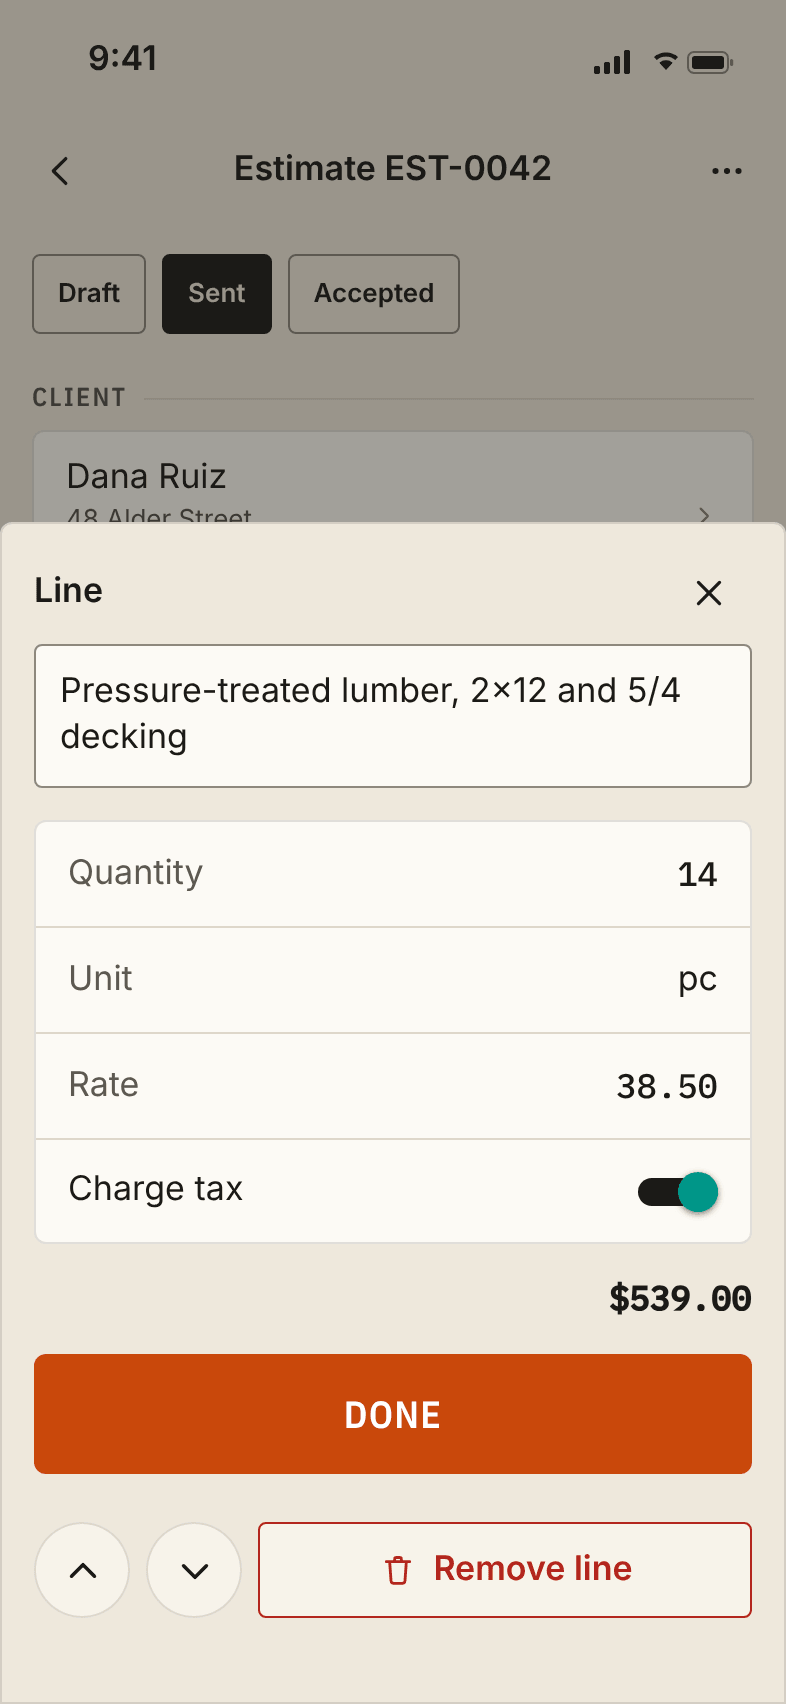
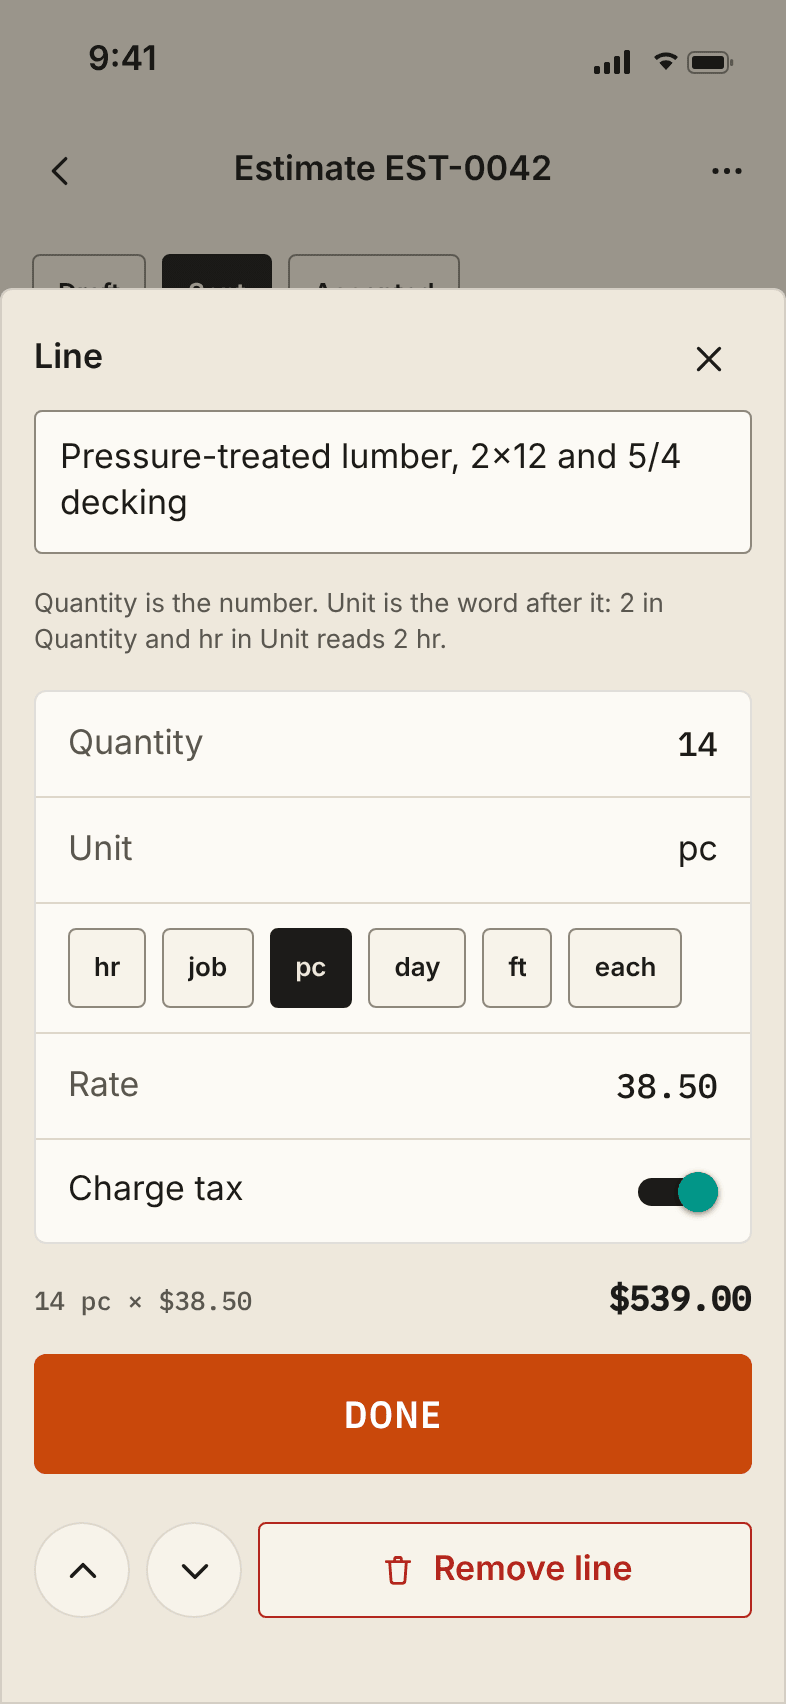
1.0.0 build 3: first-run fixes
No sample signature on the person's own estimate previews; the line
editor explains Quantity and Unit with one-tap units, a warning and the
line as it will read; the fourth intro screen shows the whole receipt
width; drawers scroll above the keyboard. Build number 3.

Claude-Session: https://claude.ai/code/session_018oC8CiF3jPh34psnTdyHuA

Changed region(s): [[0.0, 0.1555, 1.0, 0.591], [0.2137, 0.7465, 0.3053, 0.7776], [0.0611, 0.7465, 0.1221, 0.7776]]

diff --git a/src/screens/Editor.tsx b/src/screens/Editor.tsx
@@ -10,7 +10,8 @@ import { addDays, daysBetween, isoDay } from '../dates';
 import { lineAmount } from '../money';
 import { stepFor } from '../docs';
 import Glyph from '../ui/Glyph';
-import { Caption, Drawer, Field, GlyphButton, InkButton, Label, Panel, QuietButton, Row, Tap, TopBar } from '../ui/Kit';
+import { Caption, Drawer, Field, GlyphButton, InkButton, Label, Panel, Pill, QuietButton, Row, Tap, TopBar } from '../ui/Kit';
+import { lineExample, UNIT_CHOICES, unitHasNumber } from '../lineHelp';
 import { Choice, DateSheet, InputRow, MoneyRow, NumberRow, Section, SwitchRow, ValueRow } from '../ui/Form';
 import { InkView } from '../ui/InkView';
 import { tick } from '../ui/motion';
@@ -459,14 +460,30 @@ function LineEditor({
   return (
     <View style={{ gap: space.l, paddingBottom: space.s }}>
       <Field theme={theme} value={l.description} onChangeText={(description) => setL({ ...l, description })} placeholder="Describe the work or the part" multiline autoFocus={isNew} accessibilityLabel="Description" style={{ minHeight: 72, paddingTop: space.m }} />
+      <Caption theme={theme}>Quantity is the number. Unit is the word after it: 2 in Quantity and hr in Unit reads 2 hr.</Caption>
       <Panel theme={theme}>
         <NumberRow theme={theme} first label="Quantity" value={l.qty} onValue={(qty) => setL({ ...l, qty })} locale={locale} />
-        <InputRow theme={theme} label="Unit" value={l.unit} onChangeText={(unit) => setL({ ...l, unit })} placeholder="hr, ea, sq ft" autoCapitalize="none" style={{ textAlign: 'right' }} />
+        <InputRow theme={theme} label="Unit" value={l.unit} onChangeText={(unit) => setL({ ...l, unit })} placeholder="Optional, like hr" autoCapitalize="none" autoCorrect={false} style={{ textAlign: 'right' }} />
+        <View style={[styles.units, { borderTopColor: theme.rule }]} accessibilityRole="radiogroup" accessibilityLabel="Common units">
+          {UNIT_CHOICES.map((u) => (
+            <Pill key={u} theme={theme} label={u} on={l.unit.trim() === u} onPress={() => setL({ ...l, unit: l.unit.trim() === u ? '' : u })} />
+          ))}
+        </View>
+        {unitHasNumber(l.unit) ? (
+          <Text style={[type.small, styles.unitWarn, { color: theme.danger }]} accessibilityLiveRegion="polite">
+            Put the number in Quantity. Unit is only the word, like hr.
+          </Text>
+        ) : null}
         <MoneyRow theme={theme} label="Rate" value={l.rate} onValue={(rate) => setL({ ...l, rate })} currency={currency} locale={locale} />
         {taxLabel ? <SwitchRow theme={theme} label={`Charge ${taxLabel.toLowerCase()}`} value={l.taxable} onValue={(taxable) => setL({ ...l, taxable })} /> : null}
         {isNew ? <SwitchRow theme={theme} label="Save to my items" sub="Use it again on the next job" value={save} onValue={setSave} /> : null}
       </Panel>
-      <Text style={[type.strong, tabular, { color: theme.ink, textAlign: 'right' }]}>{formatMoney(lineAmount(l, stepFor(currency)), currency, locale)}</Text>
+      <View style={styles.example} accessible accessibilityLabel={`On the page: ${lineExample(l.qty, l.unit, formatMoney(l.rate, currency, locale), locale)}, ${formatMoney(lineAmount(l, stepFor(currency)), currency, locale)}`}>
+        <Text style={[type.small, tabular, { color: theme.inkSoft, flex: 1 }]} numberOfLines={1}>
+          {lineExample(l.qty, l.unit, formatMoney(l.rate, currency, locale), locale)}
+        </Text>
+        <Text style={[type.strong, tabular, { color: theme.ink }]}>{formatMoney(lineAmount(l, stepFor(currency)), currency, locale)}</Text>
+      </View>
       <InkButton theme={theme} label={isNew ? 'Add line' : 'Done'} onPress={() => onDone(l, save)} />
       {!isNew ? (
         <View style={styles.lineButtons}>
@@ -524,6 +541,9 @@ const styles = StyleSheet.create({
   client: { flexDirection: 'row', alignItems: 'center', gap: space.m, minHeight: 64, paddingHorizontal: space.l, paddingVertical: space.m },
   line: { flexDirection: 'row', alignItems: 'center', gap: space.m, minHeight: 60, paddingHorizontal: space.l, paddingVertical: space.m },
   lineButtons: { flexDirection: 'row', gap: space.s, marginTop: space.s },
+  units: { flexDirection: 'row', flexWrap: 'wrap', gap: space.s, paddingHorizontal: space.l, paddingVertical: space.m, borderTopWidth: StyleSheet.hairlineWidth },
+  unitWarn: { paddingHorizontal: space.l, paddingBottom: space.m },
+  example: { flexDirection: 'row', alignItems: 'baseline', gap: space.m },
   sumRow: { flexDirection: 'row', alignItems: 'center', minHeight: 48, paddingHorizontal: space.l },
   double: { position: 'absolute', top: 2, left: 0, right: 0, height: 1 },
   discount: { flexDirection: 'row', alignItems: 'center', justifyContent: 'space-between', minHeight: 56, paddingHorizontal: space.l, borderTopWidth: StyleSheet.hairlineWidth },

diff --git a/src/ui/Showcase.tsx b/src/ui/Showcase.tsx
@@ -11,13 +11,17 @@ import { SAMPLE_BUSINESS, sampleDoc } from '../sampleDoc';
 import { SAMPLE_SIGNATURE } from '../sample';
 import { ACCENTS } from '../settings';
 import type { Doc } from '../model';
-import type { Business } from '../settings';
+import type { Business, OwnerSignature } from '../settings';
+import { previewSignature } from '../lineHelp';
 import { formatMoney } from '../format';
 import { docTotals, rowOf } from '../docs';
 import PageView from './PageView';
 import { PlayInk } from './InkView';
 import { DocLine } from '../screens/Documents';
 import Glyph from './Glyph';
+
+/** The made-up sample business's signature, only for its own sample pages. */
+const SAMPLE_OWNER = previewSignature('sample', null, SAMPLE_SIGNATURE);
 
 export function useKit(): PdfKit | null {
   const [kit, setKit] = useState<PdfKit | null>(null);
@@ -33,10 +37,15 @@ export function useKit(): PdfKit | null {
   return kit;
 }
 
-/** A window onto part of a page: `zoom` times the box width, from `top` (a share of the page height). */
-export function PageWindow({ theme, doc, business = SAMPLE_BUSINESS, width, height, zoom = 1, top = 0, left = 0, accent = ACCENTS[0].hex, locale = 'en-US', label }: { theme: Theme; doc: Doc; business?: Business; width: number; height: number; zoom?: number; top?: number; left?: number; accent?: string; locale?: string; label: string }) {
+/**
+ * A window onto part of a page: `zoom` times the box width, from `top` (a
+ * share of the page height). `ownerSignature` is what prints on the business
+ * line: the sample's for the made-up sample pages, and for a page built from
+ * the person's own business only the signature they saved (or none).
+ */
+export function PageWindow({ theme, doc, business = SAMPLE_BUSINESS, ownerSignature, width, height, zoom = 1, top = 0, left = 0, accent = ACCENTS[0].hex, locale = 'en-US', label }: { theme: Theme; doc: Doc; business?: Business; ownerSignature: OwnerSignature | null; width: number; height: number; zoom?: number; top?: number; left?: number; accent?: string; locale?: string; label: string }) {
   const kit = useKit();
-  const pages = useMemo(() => (kit ? pagesFor(kit, { doc, business, logo: null, ownerSignature: { strokes: SAMPLE_SIGNATURE, width: 361, height: 232 }, template: 'ledger', accent, paper: 'letter', locale }) : null), [kit, doc, business, accent, locale]);
+  const pages = useMemo(() => (kit ? pagesFor(kit, { doc, business, logo: null, ownerSignature, template: 'ledger', accent, paper: 'letter', locale }) : null), [kit, doc, business, ownerSignature, accent, locale]);
   const pageW = width * zoom;
   return (
     <View style={[styles.window, { width, height, backgroundColor: '#FFFFFF', borderColor: theme.edge }]} accessible accessibilityRole="image" accessibilityLabel={label}>
@@ -51,7 +60,7 @@ export function PageWindow({ theme, doc, business = SAMPLE_BUSINESS, width, heig
 
 /** 1: an estimate's top half, with the business, the type and the first lines. */
 export function EstimateShow({ theme, width, height }: { theme: Theme; width: number; height: number }) {
-  return <PageWindow theme={theme} doc={sampleDoc('estimate')} width={width} height={height} zoom={1.08} top={0.02} left={0.02} label="An estimate with the business name, number, client and lines" />;
+  return <PageWindow theme={theme} doc={sampleDoc('estimate')} ownerSignature={SAMPLE_OWNER} width={width} height={height} zoom={1.08} top={0.02} left={0.02} label="An estimate with the business name, number, client and lines" />;
 }
 
 /** 2: the list as it looks after one tap: the estimate accepted and its invoice. */
@@ -94,7 +103,8 @@ export function SignShow({ theme, width }: { theme: Theme; width: number }) {
 
 /** 4: a receipt's totals with the PAID stamp. */
 export function ReceiptShow({ theme, width, height }: { theme: Theme; width: number; height: number }) {
-  return <PageWindow theme={theme} doc={sampleDoc('receipt', { notes: '', lines: sampleDoc('receipt').lines.slice(0, 2) })} width={width} height={height} zoom={1.1} top={0.16} left={0} accent={ACCENTS[2].hex} label="A receipt with the amount paid and a paid stamp" />;
+  // The whole width of the page, as on the first screen, cropped only at the bottom.
+  return <PageWindow theme={theme} doc={sampleDoc('receipt', { notes: '', lines: sampleDoc('receipt').lines.slice(0, 2) })} ownerSignature={SAMPLE_OWNER} width={width} height={height} zoom={1} top={0} left={0} accent={ACCENTS[2].hex} label="A receipt with the amount paid and a paid stamp" />;
 }
 
 const styles = StyleSheet.create({

diff --git a/src/screens/Welcome.tsx b/src/screens/Welcome.tsx
@@ -9,6 +9,7 @@ import { trialLength } from '../offer';
 import Glyph from '../ui/Glyph';
 import { InkButton, Panel, Row, Tap } from '../ui/Kit';
 import { ConvertShow, EstimateShow, PageWindow, ReceiptShow, SignShow } from '../ui/Showcase';
+import { previewSignature } from '../lineHelp';
 import { useData } from '../data';
 import { decimalMark } from '../format';
 import { parseAmount } from '../money';
@@ -106,7 +107,7 @@ export function FirstEstimate({ onDone }: { onDone: (docId: string | null) => vo
     return (
       <View style={[styles.container, { backgroundColor: theme.bg, paddingBottom: Math.max(insets.bottom, space.l) }]}>
         <View style={styles.visual}>
-          <PageWindow theme={theme} doc={doc} business={{ ...data.business, name: name.trim() }} width={w} height={Math.round(w * 1.0)} zoom={1.0} top={0} accent={data.defaults.accent} locale={data.locale.tag} label={`Your first estimate, ${doc.number}, from ${name.trim()}`} />
+          <PageWindow theme={theme} doc={doc} business={{ ...data.business, name: name.trim() }} ownerSignature={previewSignature('own', data.signature, [])} width={w} height={Math.round(w * 1.0)} zoom={1.0} top={0} accent={data.defaults.accent} locale={data.locale.tag} label={`Your first estimate, ${doc.number}, from ${name.trim()}`} />
         </View>
         <View style={styles.wordsUnder}>
           <Text style={[type.title, { color: theme.ink }]} accessibilityRole="header">

diff --git a/src/lineHelp.ts b/src/lineHelp.ts
@@ -1,0 +1,31 @@
+/**
+ * Help for filling in a line, and which signature a preview page carries.
+ * Pure, checked by `npm test`.
+ */
+import { formatNumber } from './format.ts';
+import type { OwnerSignature } from './settings.ts';
+import type { Stroke } from './stroke.ts';
+
+/** One-tap units beside the Unit field. Anything else can still be typed. */
+export const UNIT_CHOICES = ['hr', 'job', 'pc', 'day', 'ft', 'each'];
+
+/** How the line reads on the page, before the amount: "2 hr × $75.00" (or "1 × $75.00" with no unit). */
+export function lineExample(qty: number, unit: string, rateText: string, locale: string): string {
+  const u = unit.trim();
+  return `${formatNumber(qty, locale)}${u ? ` ${u}` : ''} × ${rateText}`;
+}
+
+/** A number typed into Unit ("2 hr") almost always belongs in Quantity. */
+export function unitHasNumber(unit: string): boolean {
+  return /\d/.test(unit);
+}
+
+/**
+ * The owner signature on a preview page. The made-up sample pages carry the
+ * sample signature; a page built from the person's own business and
+ * document carries only the signature they saved, or none.
+ */
+export function previewSignature(source: 'sample' | 'own', saved: OwnerSignature | null, sample: Stroke[]): OwnerSignature | null {
+  if (source === 'sample') return { strokes: sample, width: 361, height: 232 };
+  return saved && saved.strokes.length > 0 ? saved : null;
+}

diff --git a/src/ui/Kit.tsx b/src/ui/Kit.tsx
@@ -308,7 +308,8 @@ export function Drawer({ theme, visible, onClose, children, title }: { theme: Th
             </Text>
             <GlyphButton theme={theme} glyph="close" label="Close" onPress={onClose} />
           </View>
-          <ScrollView keyboardShouldPersistTaps="handled" bounces={false} showsVerticalScrollIndicator={false}>
+          {/* Shrinks to the room left above the keyboard and scrolls, so every control can be reached while typing. */}
+          <ScrollView style={styles.drawerScroll} keyboardShouldPersistTaps="handled" keyboardDismissMode="interactive" showsVerticalScrollIndicator={false}>
             {children}
           </ScrollView>
         </View>
@@ -333,5 +334,6 @@ const styles = StyleSheet.create({
   topTitle: { flex: 1, textAlign: 'center' },
   toast: { position: 'absolute', left: space.xl, right: space.xl, borderRadius: radius.small, paddingVertical: space.m, paddingHorizontal: space.l },
   drawer: { borderTopLeftRadius: radius.large, borderTopRightRadius: radius.large, borderWidth: 1, paddingHorizontal: space.l, paddingTop: space.s, maxHeight: '88%' },
+  drawerScroll: { flexGrow: 0, flexShrink: 1 },
   drawerHead: { flexDirection: 'row', alignItems: 'center', minHeight: 52 },
 });

diff --git a/App.tsx b/App.tsx
@@ -22,6 +22,7 @@ import type { DocType } from './src/model';
 import PaywallModal from './src/screens/Paywall';
 import Welcome, { FirstEstimate, TrialSteps } from './src/screens/Welcome';
 import { PageWindow } from './src/ui/Showcase';
+import { previewSignature } from './src/lineHelp';
 import type { Doc } from './src/model';
 import TabBar, { Tab } from './src/ui/TabBar';
 import { Drawer, InkButton, Title, Toast } from './src/ui/Kit';
@@ -120,7 +121,7 @@ function Shell() {
           hero={
             firstDoc ? (
               <View style={{ flexDirection: 'row', alignItems: 'center', gap: space.m }}>
-                <PageWindow theme={theme} doc={firstDoc} business={data.business} width={72} height={92} accent={data.defaults.accent} locale={data.locale.tag} label="Your first estimate" />
+                <PageWindow theme={theme} doc={firstDoc} business={data.business} ownerSignature={previewSignature('own', data.signature, [])} width={72} height={92} accent={data.defaults.accent} locale={data.locale.tag} label="Your first estimate" />
                 <Text style={[type.strong, { color: theme.ink, flex: 1 }]}>Your first estimate is saved.</Text>
               </View>
             ) : null

diff --git a/NOTES.md b/NOTES.md
@@ -2,6 +2,14 @@
 
 Newest first. One entry per commit: date, version/build, what changed and why, and how it was checked.
 
+- 2026-11-19: 1.0.0 build 3, first-run fixes from the TestFlight test of build 2 (branch claude/estimate-first-run-fixes).
+  - The first-estimate preview and the paywall's small page no longer print the sample signature on the person's own estimate: they show the owner signature only if one was saved (src/lineHelp.ts `previewSignature`; Showcase's PageWindow now takes the signature from its caller, and only the sample pages pass the sample one).
+  - Line editor: a one-line hint that Quantity is the number and Unit the word after it; one-tap units hr, job, pc, day, ft, each beside the free text Unit field; a red note when Unit contains a number; and the line as it will read (for example "2 hr × $75.00") above the amount and Done, so "1 2 hr" is visible before it is saved.
+  - Fourth intro screen: the receipt page fills the card width (zoom 1, no left or top offset) and is cropped only at the bottom, so the AMOUNT column and the PAID stamp show.
+  - Drawers (src/ui/Kit.tsx): the scroll area shrinks to the room left above the keyboard and scrolls, so Remove line in the line sheet can be reached while the keyboard is up.
+  - app.json `ios.buildNumber` 3; version stays 1.0.0. Nothing changed in purchases, numbering or the PDF layout.
+  - Checked: `npx tsc --noEmit` clean, `npm test` 62 passing (new: which signature a preview carries and that the own-estimate previews are wired to the saved one, the unit choices, the line example and the number-in-Unit check, the receipt crop, the drawer's keyboard fit, build number 3), `npx expo export --platform ios` bundles. Re-rendered and looked at: docs/design/after 07-line, 07b-line-unit-number (new), 20-onboarding-4, 22-first-estimate-pdf, 25-paywall-onboarding, light and dark. The keyboard itself cannot be shown in the web renders; Remove line with the keyboard up needs a TestFlight check.
+
 - 2026-11-18: 1.0.0 build 2, the pencil icon (branch claude/estimate-icon-pencil).
   - Brian chose a new app icon, a sheet with a pencil on green, to replace the orange ticket. The SVG is saved exactly as given in store/icon-pencil.svg, and store/icon.js now renders the shipped files from it: assets/icon.png (1024x1024, no alpha, square corners), splash-icon.png and splash-icon-dark.png, android-icon-foreground.png (app.json adaptive icon background set to the same green, #1F6F54), favicon.png, docs/icon-512.png, docs/apple-touch-icon.png and docs/og-image.png. The website's icon descriptions say what the new one shows. `node icon.js options` still draws the 1.0.0 concepts.
   - app.json `ios.buildNumber` 2 (version stays 1.0.0), so the merge makes a new TestFlight build. Nothing else in the app changed: the orange accent and every screen are as they were.

diff --git a/docs/design/NOTES.md b/docs/design/NOTES.md
@@ -29,6 +29,15 @@ What the "before" showed, and what changed:
 - The graphite color dot disappeared on the dark background; every color dot has a ring.
 - The receipt on the fourth onboarding screen was cropped through the client's name; it now starts at the left edge.
 
+## Build 3: first-run fixes (Nov 19, 2026)
+
+From Brian's TestFlight test of build 2. Re-rendered in `after/`: `07-line`, the new `07b-line-unit-number`, `20-onboarding-4`, `22-first-estimate-pdf` and `25-paywall-onboarding`, light and dark.
+
+- The first-estimate preview and the small page on the onboarding paywall drew the sample signature on the person's own estimate. A page built from their own business and document now carries only the signature they saved, or none (`src/lineHelp.ts` `previewSignature`); the sample signature stays on the made-up Okafor Carpentry pages and the Sign here demo.
+- The line editor said too little about Quantity and Unit ("2 hr" typed into Unit printed "1 2 hr"). It now has one line under the description ("Quantity is the number. Unit is the word after it"), one-tap units (hr, job, pc, day, ft, each) under the Unit field, a red note when Unit has a number in it, and the line as it will read ("2 hr × $75.00") beside the amount, above Done.
+- The fourth intro screen cut the receipt at the right edge (the AMOUNT column and the PAID stamp). The page now fills the card's width, like the first screen, and is cropped only at the bottom.
+- In the line sheet, Remove line sat behind the keyboard. Every drawer now shrinks to the room above the keyboard and scrolls, so every control can be reached while typing.
+
 ## Icon
 
 Build 2 (Nov 18, 2026): Brian chose a new icon, a sheet of paper with ruled lines and a yellow pencil, on green (#1F6F54). It is kept exactly as he drew it in `store/icon-pencil.svg`; `node store/icon.js` renders it, with no shape or color changed, to `assets/icon.png` (1024x1024, square corners, no alpha channel), both splash icons, the Android adaptive foreground (its background color is the same green), the favicon, and the website's `icon-512.png`, `apple-touch-icon.png` and `og-image.png`. Only the icon changed: the app keeps its manila, ink and tape-measure orange, and its screens are as they were.

diff --git a/CLAUDE.md b/CLAUDE.md
@@ -6,7 +6,7 @@ App #15 in Brian's iOS app portfolio (seller bkdigitalleads-cmyk). Expo SDK 57, 
 
 - App Store name: "Estimate Maker & Receipt Maker". Subtitle "Invoice Generator, Quote Maker". Home screen name and in-app name: "Estimate Maker". Category Business, secondary Productivity. Bundle ID com.bwk.estimatemaker. Expo slug and scheme: estimatemaker. Owner bkdeveloper123. GitHub: bkdigitalleads-cmyk/estimatemaker.
 - Set up (Nov 17, 2026, values from Cowork): app.json `extra.revenueCatApiKeyIos` is the public RevenueCat SDK key (starts with `appl_`, so purchases are on; the app runs with purchases off whenever it does not), eas.json `ascAppId` 6835862478 (https://apps.apple.com/app/id6835862478). app.json `extra.eas.projectId` 856ac8c1-33de-48e9-a845-64e9cd7354a3 (Expo project bkdeveloper123/estimatemaker, set Nov 18). No placeholders are left.
-- Not in the store yet. 1.0.0 build 1 (PR 1, merged) is on TestFlight. Build 2, the pencil icon, is on branch claude/estimate-icon-pencil (PR, not merged).
+- Not in the store yet. 1.0.0 builds 1 and 2 (PRs 1 and 2, merged) went to TestFlight. Build 3, first-run fixes, is on branch claude/estimate-first-run-fixes (PR, not merged).
 - What it is: an offline estimate, quote, invoice and receipt maker for contractors, freelancers and small shops. No account, no server, nothing leaves the phone unless the person shares a PDF.
 - Guardrail, always: every document prints the person's own business details. Never ship a template, sample or screenshot that imitates a store, brand or bank, and never use a retailer's name in samples. Sample data uses plain people's names and "Your Business".
 
